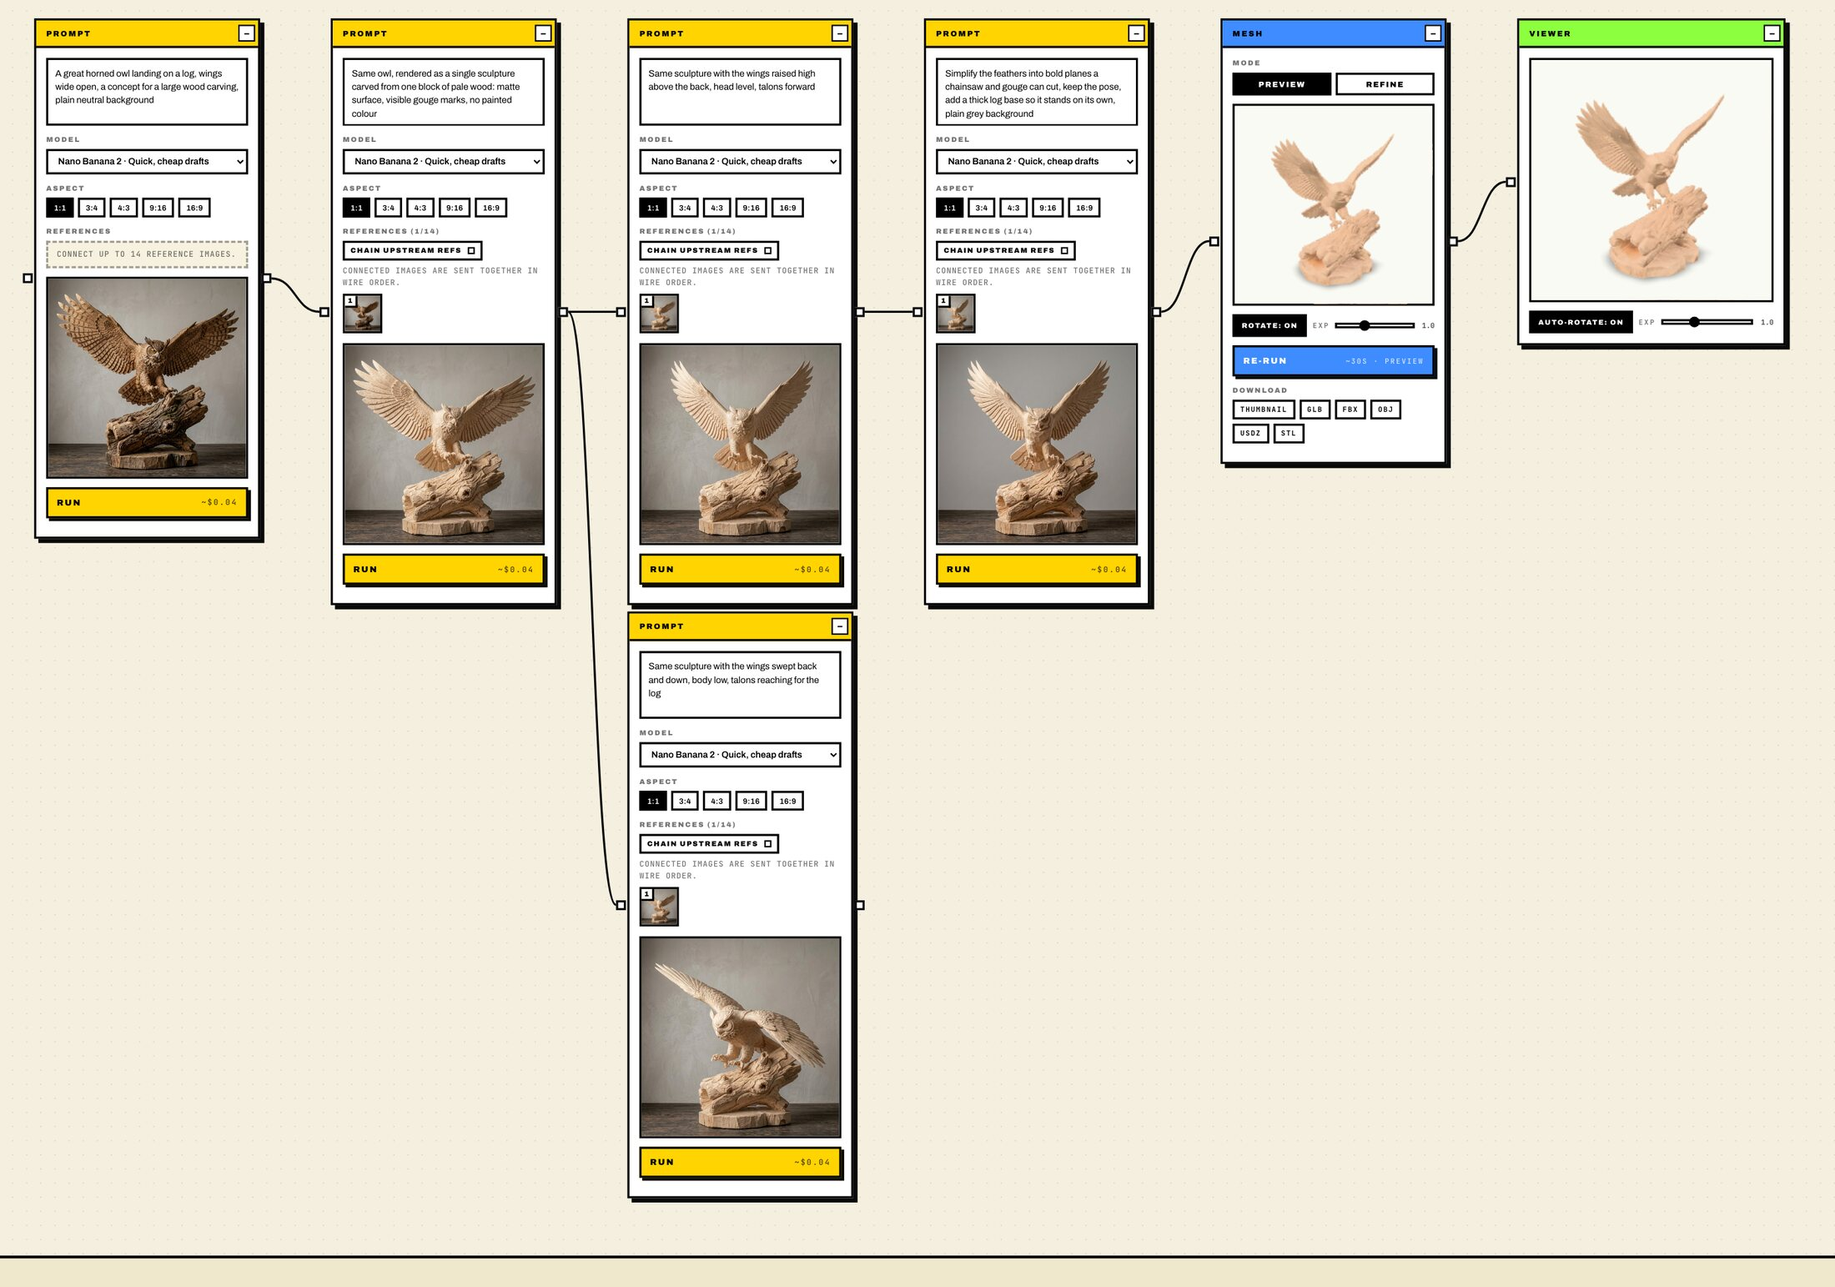
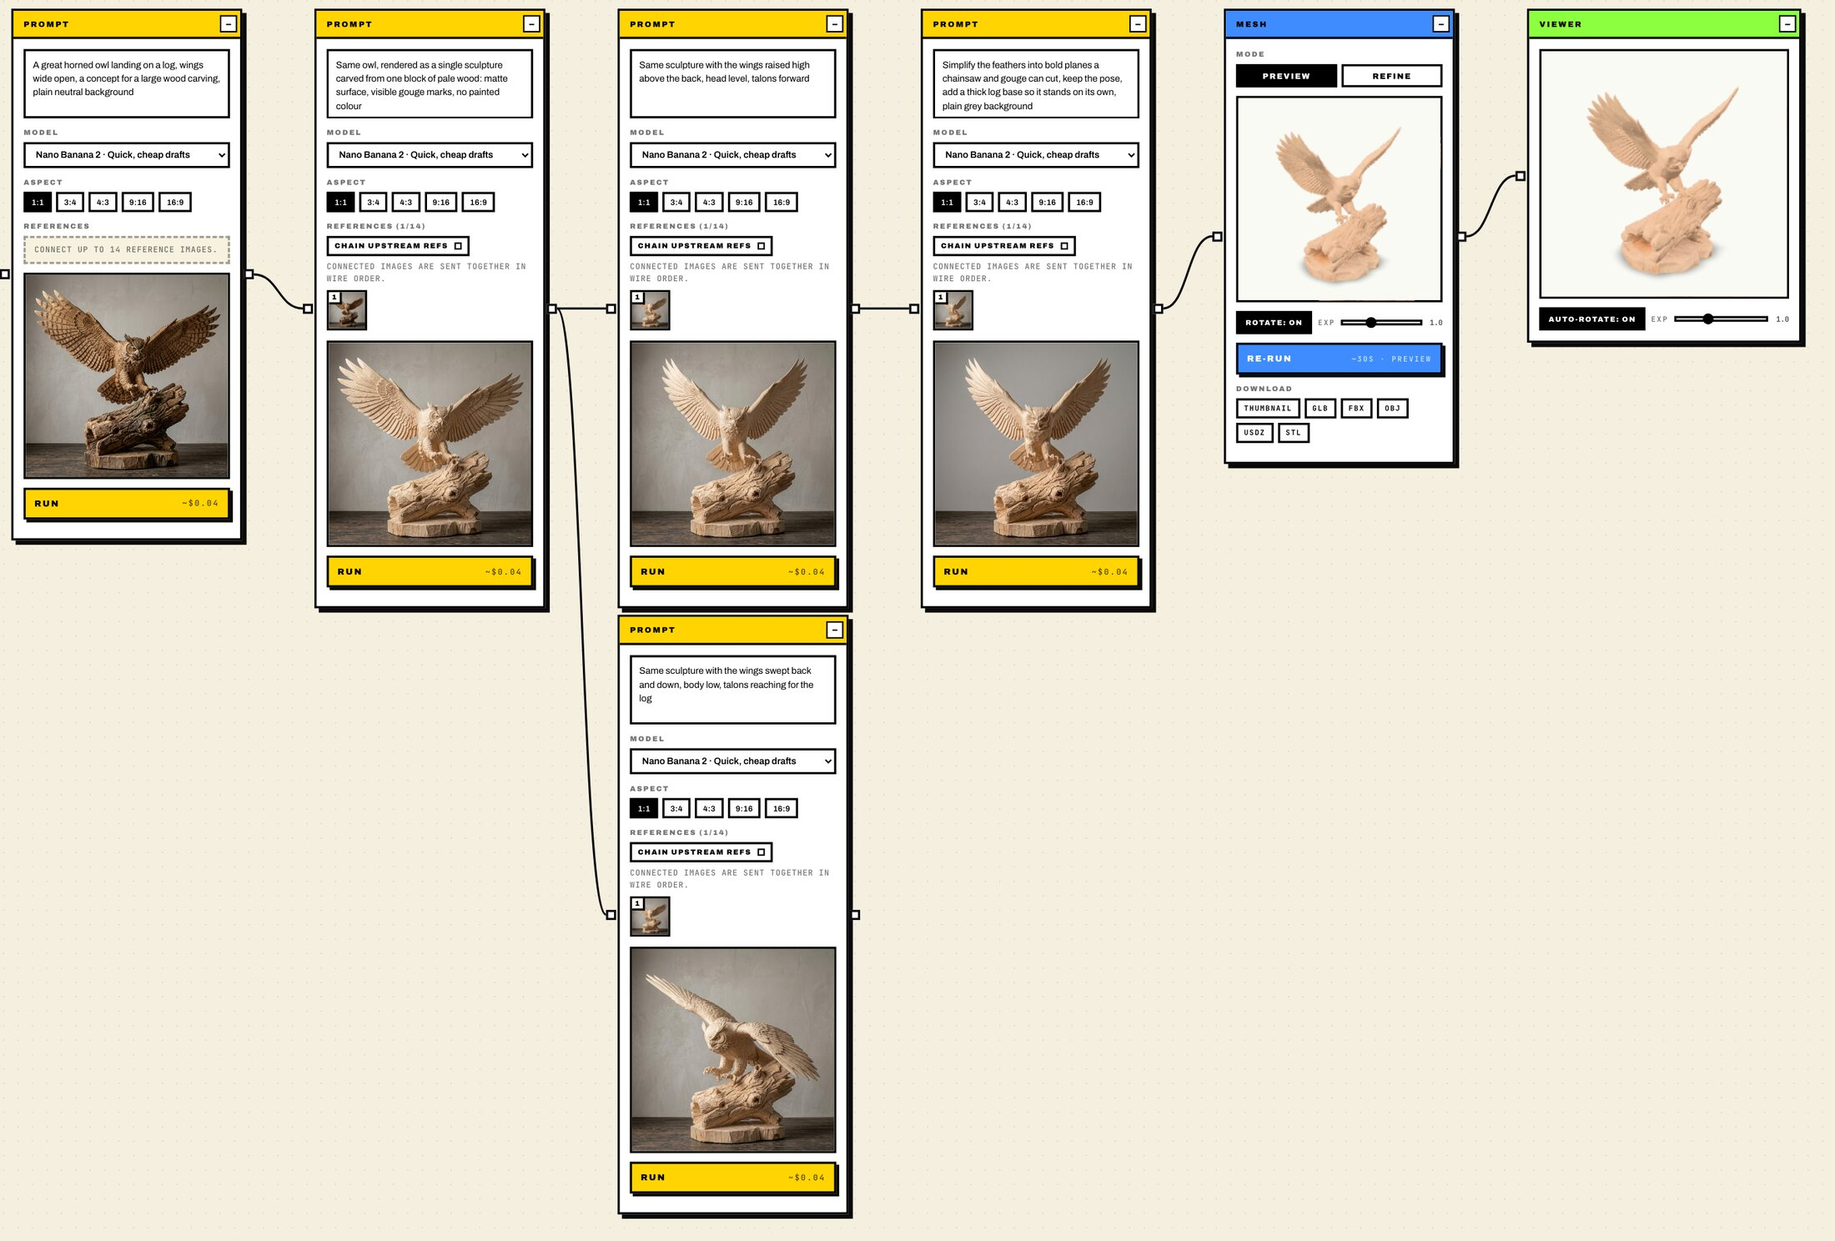
Carvingen: redesign with numbered step grids so each lineage reads at a glance

Changed region(s): [[0.0, 0.0, 1.0, 0.9892]]

diff --git a/carvingen.html b/carvingen.html
@@ -17,6 +17,8 @@
 @layer components{:where(body[data-page=index]) .shot{margin:var(--dimension-1-4-rem) 0 0;border:var(--dimension-1-px) solid var(--rule);background:var(--color-surface-11)}:where(body[data-page=index]) .shot img,:where(body[data-page=index]) .shot video{width:calc(var(--relative-100-percent) * 1%);height:auto;display:block}@scope(html:has(body:not([data-page=index],[data-page=creative],[data-page=music]))){.shot{margin:var(--dimension-1-4-rem) 0 0;border:var(--dimension-1-px) solid var(--rule);background:var(--color-surface-11)}}@scope(html:has(body:not([data-page=index],[data-page=creative],[data-page=music]))){.shot img,.shot video{width:calc(var(--relative-100-percent) * 1%);height:auto;display:block}}@scope(html:has(body:not([data-page=index],[data-page=creative],[data-page=music]))){.plate{margin:var(--dimension-1-6-rem) 0 0}}@scope(html:has(body:not([data-page=index],[data-page=creative],[data-page=music]))){.plate .shot{margin:0}}@scope(html:has(body:not([data-page=index],[data-page=creative],[data-page=music]))){.plate figcaption{margin:var(--dimension-0-6-rem) 0 0;color:var(--ink-soft);font-style:italic;font-size:var(--dimension-1-rem);text-align:center}}@scope(html:has(body:not([data-page=index],[data-page=creative],[data-page=music]))){.plate.narrow{max-width:var(--dimension-340-px);margin-left:auto;margin-right:auto}}@scope(html:has(body:not([data-page=index],[data-page=creative],[data-page=music]))){.plate.portrait{max-width:var(--dimension-24-rem);margin-left:auto;margin-right:auto}}@scope(html:has(body:not([data-page=index],[data-page=creative],[data-page=music]))){.plate+p,.plate+h3{margin-top:var(--dimension-1-4-rem)}}}
 /*! tailwindcss v4.3.3 | MIT License | https://tailwindcss.com */
 @layer components{@scope(html:has(body:not([data-page=index],[data-page=creative],[data-page=music]))){.facts{margin:var(--dimension-1-2-rem) 0 0;padding:0;list-style:none}}@scope(html:has(body:not([data-page=index],[data-page=creative],[data-page=music]))){.facts li{grid-template-columns:var(--dimension-11-rem) 1fr;gap:var(--dimension-1-rem);padding:var(--dimension-0-6-rem) 0;border-bottom:var(--dimension-1-px) solid var(--rule);display:grid}}@scope(html:has(body:not([data-page=index],[data-page=creative],[data-page=music]))){.facts strong{font-weight:var(--number-font-weight-600)}}@scope(html:has(body:not([data-page=index],[data-page=creative],[data-page=music]))){.facts span{color:var(--ink-soft)}}@scope(html:has(body:not([data-page=index],[data-page=creative],[data-page=music]))){.facts+p,.facts+.plate{margin-top:var(--dimension-1-4-rem)}}@scope(html:has(body:not([data-page=index],[data-page=creative],[data-page=music]))){@media (width<=640px){.facts li{gap:var(--dimension-0-1-rem);grid-template-columns:1fr}}}}
+/*! tailwindcss v4.3.3 | MIT License | https://tailwindcss.com */
+@layer components{@scope(html:has(body:not([data-page=index],[data-page=creative],[data-page=music]))){.steps{counter-reset:step;gap:var(--dimension-1-6-rem) var(--dimension-1-rem);margin:var(--dimension-1-6-rem) 0 0;grid-template-columns:repeat(3,minmax(0,1fr));display:grid}}@scope(html:has(body:not([data-page=index],[data-page=creative],[data-page=music]))){.steps.pair{grid-template-columns:repeat(2,minmax(0,1fr))}}@scope(html:has(body:not([data-page=index],[data-page=creative],[data-page=music]))){.steps+p,.steps+.plate{margin-top:var(--dimension-1-6-rem)}}@scope(html:has(body:not([data-page=index],[data-page=creative],[data-page=music]))){.steps .step{counter-increment:step;margin:0}}@scope(html:has(body:not([data-page=index],[data-page=creative],[data-page=music]))){.steps .step .shot{aspect-ratio:1;background:var(--color-surface-10);justify-content:center;align-items:center;margin:0;display:flex;overflow:hidden}}@scope(html:has(body:not([data-page=index],[data-page=creative],[data-page=music]))){.steps .step .shot img,.steps .step .shot video{width:calc(var(--relative-100-percent) * 1%);height:calc(var(--relative-100-percent) * 1%);object-fit:contain}}@scope(html:has(body:not([data-page=index],[data-page=creative],[data-page=music]))){.steps .step figcaption{margin:var(--dimension-0-6-rem) 0 0;color:var(--ink-soft);font-style:italic;font-size:var(--dimension-1-rem)}}@scope(html:has(body:not([data-page=index],[data-page=creative],[data-page=music]))){.steps .step figcaption:before{content:counter(step) ". ";color:var(--vermilion);font-family:var(--display);font-style:normal}}@scope(html:has(body:not([data-page=index],[data-page=creative],[data-page=music]))){@media (width<=640px){.steps,.steps.pair{grid-template-columns:repeat(2,minmax(0,1fr))}}}}
 </style></head>
   <body>
     
@@ -61,110 +63,51 @@
 
       <main>
       <section class="work">
-        <h2>What it has made</h2>
-        <p>Carvingen puts the whole path on one canvas. Before it, I made pieces like this by hand, with prompts in a chat and a separate tool for the 3D model. Two of them are here, both carved in wood.</p>
-
-        <h3>A rider on a leaping horse</h3>
-        <figure class="plate narrow">
-          <div class="shot"><img src="./assets/carvingen/rider-01-ink-drawing.jpg" alt="An ink drawing of a woman riding a leaping horse." loading="lazy"></div>
-          <figcaption>An ink drawing of the idea.</figcaption>
-        </figure>
-        <figure class="plate narrow">
-          <div class="shot"><img src="./assets/carvingen/rider-02-marble.jpg" alt="The same rider and horse as a marble sculpture." loading="lazy"></div>
-          <figcaption>The same piece as a sculpture.</figcaption>
-        </figure>
-        <figure class="plate narrow">
-          <div class="shot"><video controls playsinline preload="none" poster="./assets/carvingen/woman-model-poster.jpg" src="https://pub-066596d7e4fe4de2b74eac13bb03fe55.r2.dev/carvingen/woman-model.mp4" aria-label="The 3D model of the marble rider and horse, turning."></video></div>
-          <figcaption>Its 3D model, <a href="https://www.meshy.ai/3d-models/Realistic-Marble-Statuejpg-v2-019ac0c3-eb1f-71a8-b59d-87e9ed433fa6" target="_blank" rel="noopener">on Meshy</a>.</figcaption>
-        </figure>
-        <figure class="plate narrow">
-          <div class="shot"><img src="./assets/carvingen/rider-03-composite.jpg" alt="The marble rider and horse with a bronze baby carrier on her back." loading="lazy"></div>
-          <figcaption>With a bronze baby carrier added on her back. This version went to 3D.</figcaption>
-        </figure>
-        <figure class="plate narrow">
-          <div class="shot"><video controls playsinline preload="none" poster="./assets/carvingen/baby-model-poster.jpg" src="https://pub-066596d7e4fe4de2b74eac13bb03fe55.r2.dev/carvingen/baby-model.mp4" aria-label="The 3D model of the baby carrier, turning."></video></div>
-          <figcaption>The baby carrier as its own 3D model, <a href="https://www.meshy.ai/3d-models/Adorable-Baby-Portraitjpg-v2-019ac101-59e5-7ca3-a39f-8986b2c5ea27" target="_blank" rel="noopener">on Meshy</a>.</figcaption>
-        </figure>
-        <figure class="plate">
-          <div class="shot"><video controls playsinline preload="none" poster="./assets/carvingen/horse-rider-3d-model-poster.jpg" src="https://pub-066596d7e4fe4de2b74eac13bb03fe55.r2.dev/carvingen/horse-rider-3d-model.mp4" aria-label="The 3D model of the woman on the leaping horse, turning."></video></div>
-          <figcaption>The 3D model the carvers worked from.</figcaption>
-        </figure>
-        <figure class="plate">
-          <div class="shot"><img src="./assets/carvingen/leaping-wood.jpg" alt="The woman on the leaping horse, carved in pale wood, standing in the studio at night." loading="lazy"></div>
-          <figcaption>The piece in the studio.</figcaption>
-        </figure>
-        <figure class="plate">
-          <div class="shot"><video controls playsinline preload="none" poster="./assets/carvingen/leaping-carving-poster.jpg" src="https://pub-066596d7e4fe4de2b74eac13bb03fe55.r2.dev/carvingen/leaping-carving.mp4" aria-label="The woman on the leaping horse in the studio, carved in wood."></video></div>
-          <figcaption>Up close, before the finish.</figcaption>
-        </figure>
-
-        <h3>A rider on a rearing horse</h3>
-        <p>A second piece, a rider in a feathered headdress on a rearing horse. <a href="https://www.meshy.ai/3d-models/IMG9310jpeg-v2-019ac138-e375-7ee8-80ad-6b96d1c296eb" target="_blank" rel="noopener">Its 3D model is on Meshy.</a></p>
-        <figure class="plate narrow">
-          <div class="shot"><img src="./assets/carvingen/rearing-01-ink-drawing.jpg" alt="An ink drawing of a rider in a feathered headdress on a rearing horse." loading="lazy"></div>
-          <figcaption>The drawing the 3D model was made from.</figcaption>
-        </figure>
-        <figure class="plate narrow">
-          <div class="shot"><video controls playsinline preload="none" poster="./assets/carvingen/rearing-model-poster.jpg" src="https://pub-066596d7e4fe4de2b74eac13bb03fe55.r2.dev/carvingen/rearing-model.mp4" aria-label="The 3D model of the rider on the rearing horse, turning."></video></div>
-          <figcaption>The 3D model, turning in the Meshy viewer.</figcaption>
-        </figure>
-        <figure class="plate">
-          <div class="shot"><img src="./assets/carvingen/rearing-wood.jpg" alt="The rider in a feathered headdress on a rearing horse, carved in wood, in the studio at night." loading="lazy"></div>
-          <figcaption>The piece in the studio.</figcaption>
-        </figure>
-        <figure class="plate">
-          <div class="shot"><video controls playsinline preload="none" poster="./assets/carvingen/rearing-carving-poster.jpg" src="https://pub-066596d7e4fe4de2b74eac13bb03fe55.r2.dev/carvingen/rearing-carving.mp4" aria-label="A carver finishing the wooden rider on the rearing horse."></video></div>
-          <figcaption>The carver finishing it.</figcaption>
-        </figure>
-
-        <figure class="plate">
-          <div class="shot"><img src="./assets/carvingen/flatbed-both.jpg" alt="Both finished wooden pieces strapped to a flatbed truck." loading="lazy"></div>
-          <figcaption>Both pieces leaving the studio.</figcaption>
-        </figure>
-      </section>
-
-      <section class="work">
         <h2>One canvas, start to finish</h2>
         <p>To show the canvas, I made an owl landing on a log: five Nano Banana 2 images, one branch and one Meshy v6 model. Every step is a node.</p>
         <figure class="plate">
           <div class="shot"><img src="./assets/carvingen/owl-canvas.jpg" alt="The Carvingen canvas for the owl: a chain of prompt nodes with their images, a branch, a Mesh node and a Viewer node." loading="lazy"></div>
           <figcaption>The whole chain on one canvas, from the first image to the 3D model.</figcaption>
         </figure>
-
-        <h3>1. A first image</h3>
-        <p>A text prompt and nothing else.</p>
-        <figure class="plate narrow">
-          <div class="shot"><img src="./assets/carvingen/owl-1-first-image.jpg" alt="A great horned owl landing on a log with its wings wide open." loading="lazy"></div>
-        </figure>
-
-        <h3>2. The same owl, as wood</h3>
-        <p>An edit of the first image that turns the same owl into one block of pale, unstained wood.</p>
-        <figure class="plate narrow">
-          <div class="shot"><img src="./assets/carvingen/owl-2-as-wood.jpg" alt="The owl as a sculpture carved from one block of pale wood." loading="lazy"></div>
-        </figure>
-
-        <h3>3. Two branches</h3>
-        <p>Wings raised higher, or swept back and down. I kept the raised wings, and the other branch stays on the canvas in case I want it back.</p>
-        <figure class="plate narrow">
-          <div class="shot"><img src="./assets/carvingen/owl-3a-wings-up.jpg" alt="The owl sculpture with its wings raised high." loading="lazy"></div>
-          <figcaption>Wings raised higher. The one I kept.</figcaption>
-        </figure>
-        <figure class="plate narrow">
-          <div class="shot"><img src="./assets/carvingen/owl-3b-wings-back.jpg" alt="The owl sculpture with its wings swept back and down." loading="lazy"></div>
-          <figcaption>Wings swept back.</figcaption>
-        </figure>
-
-        <h3>4. Simplified for carving</h3>
-        <p>The feathers and face reduced to bolder planes that a carver can cut.</p>
-        <figure class="plate narrow">
-          <div class="shot"><img src="./assets/carvingen/owl-4-simplified.jpg" alt="The owl simplified into bolder carvable planes, standing on a log." loading="lazy"></div>
-        </figure>
-
-        <h3>5. A 3D model</h3>
+        <div class="steps">
+        <figure class="step"><div class="shot"><img src="./assets/carvingen/owl-1-first-image.jpg" alt="A great horned owl landing on a log with its wings wide open." loading="lazy"></div><figcaption>A text prompt and nothing else.</figcaption></figure>
+        <figure class="step"><div class="shot"><img src="./assets/carvingen/owl-2-as-wood.jpg" alt="The owl as a sculpture carved from one block of pale wood." loading="lazy"></div><figcaption>The same owl in one block of pale, unstained wood.</figcaption></figure>
+        <figure class="step"><div class="shot"><img src="./assets/carvingen/owl-3a-wings-up.jpg" alt="The owl sculpture with its wings raised high." loading="lazy"></div><figcaption>Wings raised higher. The one I kept.</figcaption></figure>
+        <figure class="step"><div class="shot"><img src="./assets/carvingen/owl-3b-wings-back.jpg" alt="The owl sculpture with its wings swept back and down." loading="lazy"></div><figcaption>Wings swept back. The other branch, still on the canvas.</figcaption></figure>
+        <figure class="step"><div class="shot"><img src="./assets/carvingen/owl-4-simplified.jpg" alt="The owl simplified into bolder carvable planes, standing on a log." loading="lazy"></div><figcaption>Feathers and face reduced to bolder planes a carver can cut.</figcaption></figure>
+        <figure class="step"><div class="shot"><video controls playsinline preload="none" poster="./assets/carvingen/owl-model-poster.jpg" src="https://pub-066596d7e4fe4de2b74eac13bb03fe55.r2.dev/carvingen/owl-model.mp4" aria-label="The 3D model of the owl turning in the Carvingen viewer."></video></div><figcaption>The Meshy v6 model, turning in the viewer.</figcaption></figure>
+        </div>
         <p>The chosen image goes into a Mesh node and comes back as a 3D model, with GLB, FBX and USDZ files to download. The Viewer node turns it so you can check every side before carving.</p>
+      </section>
+
+      <section class="work">
+        <h2>What it has made</h2>
+        <p>Carvingen puts the whole path on one canvas. Before it, I made pieces like this by hand, with prompts in a chat and a separate tool for the 3D model. Two of them are here, both carved in wood.</p>
+
+        <h3>A rider on a leaping horse</h3>
+        <div class="steps">
+        <figure class="step"><div class="shot"><img src="./assets/carvingen/rider-01-ink-drawing.jpg" alt="An ink drawing of a woman riding a leaping horse." loading="lazy"></div><figcaption>An ink drawing of the idea.</figcaption></figure>
+        <figure class="step"><div class="shot"><img src="./assets/carvingen/rider-02-marble.jpg" alt="The same rider and horse as a marble sculpture." loading="lazy"></div><figcaption>The same piece as a sculpture.</figcaption></figure>
+        <figure class="step"><div class="shot"><video controls playsinline preload="none" poster="./assets/carvingen/woman-model-poster.jpg" src="https://pub-066596d7e4fe4de2b74eac13bb03fe55.r2.dev/carvingen/woman-model.mp4" aria-label="The 3D model of the marble rider and horse, turning."></video></div><figcaption>Its 3D model, <a href="https://www.meshy.ai/3d-models/Realistic-Marble-Statuejpg-v2-019ac0c3-eb1f-71a8-b59d-87e9ed433fa6" target="_blank" rel="noopener">on Meshy</a>.</figcaption></figure>
+        <figure class="step"><div class="shot"><video controls playsinline preload="none" poster="./assets/carvingen/baby-model-poster.jpg" src="https://pub-066596d7e4fe4de2b74eac13bb03fe55.r2.dev/carvingen/baby-model.mp4" aria-label="The 3D model of the baby carrier, turning."></video></div><figcaption>The baby carrier as its own 3D model, <a href="https://www.meshy.ai/3d-models/Adorable-Baby-Portraitjpg-v2-019ac101-59e5-7ca3-a39f-8986b2c5ea27" target="_blank" rel="noopener">on Meshy</a>.</figcaption></figure>
+        <figure class="step"><div class="shot"><img src="./assets/carvingen/rider-03-composite.jpg" alt="The marble rider and horse with a bronze baby carrier on her back." loading="lazy"></div><figcaption>The carrier added on her back. This version went to 3D.</figcaption></figure>
+        <figure class="step"><div class="shot"><video controls playsinline preload="none" poster="./assets/carvingen/horse-rider-3d-model-poster.jpg" src="https://pub-066596d7e4fe4de2b74eac13bb03fe55.r2.dev/carvingen/horse-rider-3d-model.mp4" aria-label="The 3D model of the woman on the leaping horse, turning."></video></div><figcaption>The 3D model the carvers worked from.</figcaption></figure>
+        <figure class="step"><div class="shot"><img src="./assets/carvingen/leaping-wood.jpg" alt="The woman on the leaping horse, carved in pale wood, standing in the studio at night." loading="lazy"></div><figcaption>The piece in the studio.</figcaption></figure>
+        <figure class="step"><div class="shot"><video controls playsinline preload="none" poster="./assets/carvingen/leaping-carving-poster.jpg" src="https://pub-066596d7e4fe4de2b74eac13bb03fe55.r2.dev/carvingen/leaping-carving.mp4" aria-label="The woman on the leaping horse in the studio, carved in wood."></video></div><figcaption>Up close, before the finish.</figcaption></figure>
+        </div>
+
+        <h3>A rider on a rearing horse</h3>
+        <p>A second piece, a rider in a feathered headdress on a rearing horse.</p>
+        <div class="steps pair">
+        <figure class="step"><div class="shot"><img src="./assets/carvingen/rearing-01-ink-drawing.jpg" alt="An ink drawing of a rider in a feathered headdress on a rearing horse." loading="lazy"></div><figcaption>The drawing the 3D model was made from.</figcaption></figure>
+        <figure class="step"><div class="shot"><video controls playsinline preload="none" poster="./assets/carvingen/rearing-model-poster.jpg" src="https://pub-066596d7e4fe4de2b74eac13bb03fe55.r2.dev/carvingen/rearing-model.mp4" aria-label="The 3D model of the rider on the rearing horse, turning."></video></div><figcaption>Its 3D model, <a href="https://www.meshy.ai/3d-models/IMG9310jpeg-v2-019ac138-e375-7ee8-80ad-6b96d1c296eb" target="_blank" rel="noopener">on Meshy</a>.</figcaption></figure>
+        <figure class="step"><div class="shot"><img src="./assets/carvingen/rearing-wood.jpg" alt="The rider in a feathered headdress on a rearing horse, carved in wood, in the studio at night." loading="lazy"></div><figcaption>The piece in the studio.</figcaption></figure>
+        <figure class="step"><div class="shot"><video controls playsinline preload="none" poster="./assets/carvingen/rearing-carving-poster.jpg" src="https://pub-066596d7e4fe4de2b74eac13bb03fe55.r2.dev/carvingen/rearing-carving.mp4" aria-label="A carver finishing the wooden rider on the rearing horse."></video></div><figcaption>The carver finishing it.</figcaption></figure>
+        </div>
+
         <figure class="plate">
-          <div class="shot"><video controls playsinline preload="none" poster="./assets/carvingen/owl-model-poster.jpg" src="https://pub-066596d7e4fe4de2b74eac13bb03fe55.r2.dev/carvingen/owl-model.mp4" aria-label="The 3D model of the owl turning in the Carvingen viewer."></video></div>
-          <figcaption>The model, turning in the viewer.</figcaption>
+          <div class="shot"><img src="./assets/carvingen/flatbed-both.jpg" alt="Both finished wooden pieces strapped to a flatbed truck." loading="lazy"></div>
+          <figcaption>Both pieces leaving the studio.</figcaption>
         </figure>
       </section>
 
